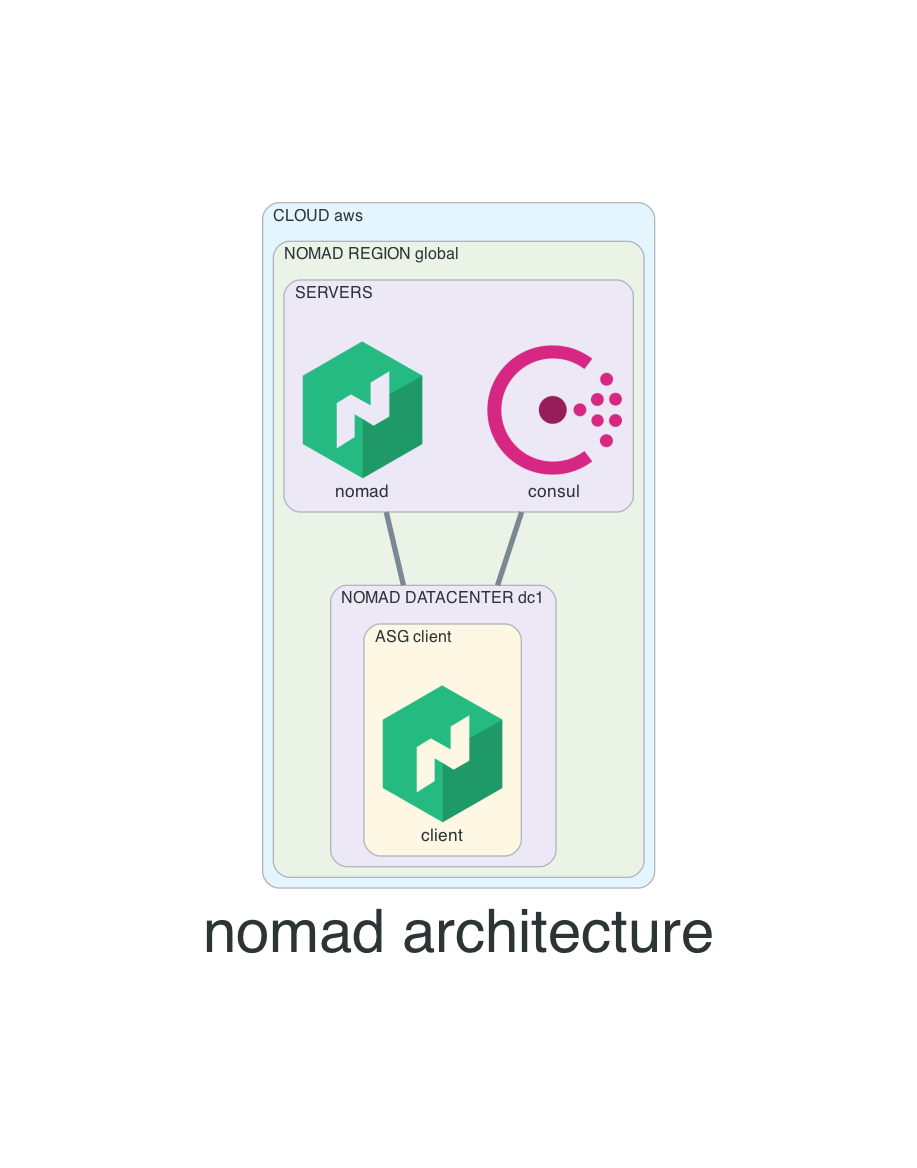
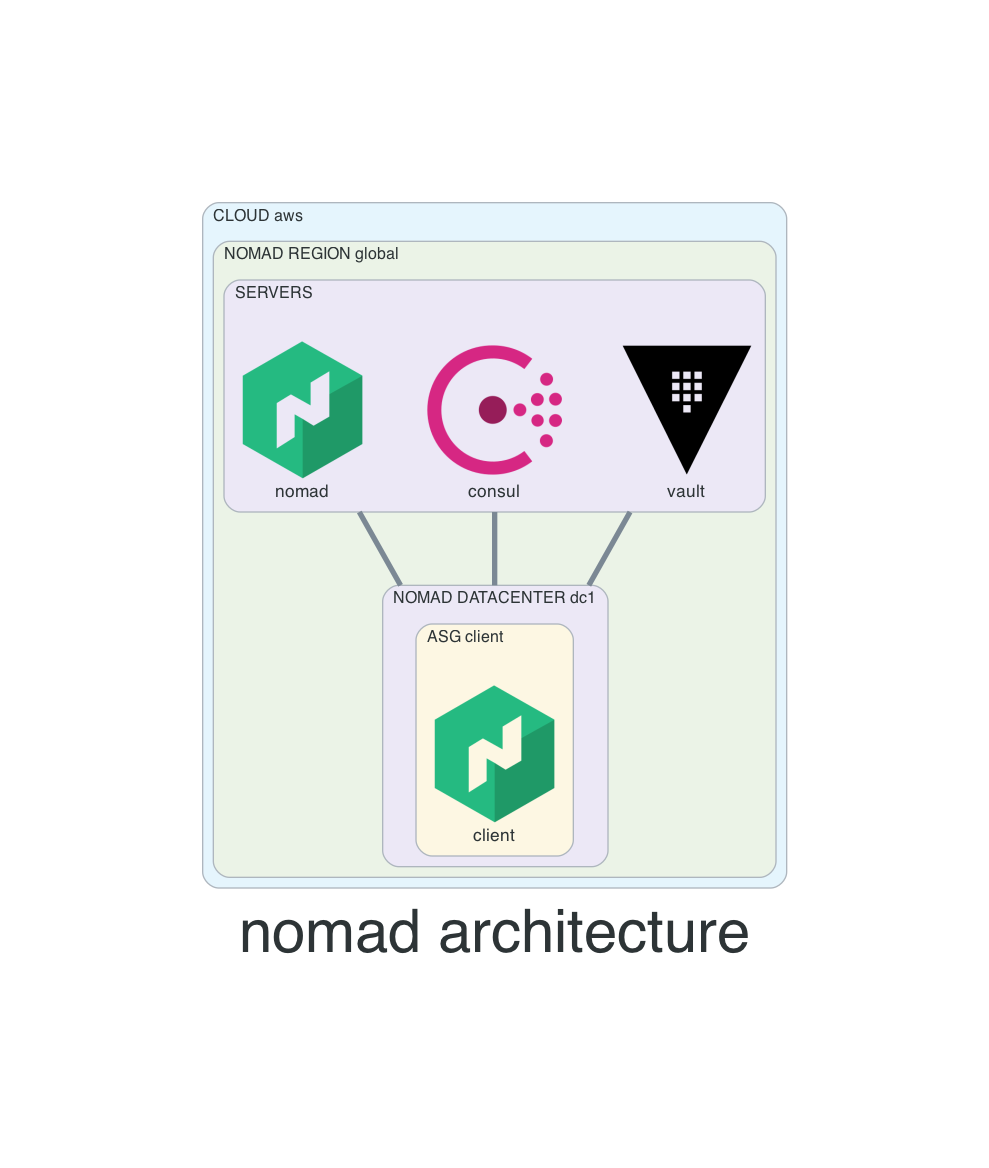
add vault

Changed region(s): [[0.1832, 0.1541, 0.7939, 0.8322], [0.458, 0.2158, 0.4885, 0.2466]]

diff --git a/diagram/diagram.py b/diagram/diagram.py
@@ -4,6 +4,7 @@ from diagrams import Diagram, Cluster, Edge
 from diagrams.aws.network import Route53, ELB
 from diagrams.onprem.network import Consul, Traefik
 from diagrams.onprem.compute import Nomad
+from diagrams.onprem.security import Vault
 
 outformat="png"
 
@@ -21,23 +22,25 @@ with Diagram("nomad architecture", filename="diagram", direction="TB",outformat=
             with Cluster("SERVERS"):
                 consul1_global = Consul("consul")
                 nomad1_global = Nomad("nomad")
+                vault1_global = Vault("vault")
             with Cluster("NOMAD DATACENTER dc1"):
                 with Cluster("ASG client"):
                     client1 = Nomad("client")
                     nomad1_global - Edge(penwidth = "4", lhead = "cluster_NOMAD DATACENTER dc1", ltail="cluster_SERVERS", minlen="2") - client1
                     consul1_global - Edge(penwidth = "4", lhead = "cluster_NOMAD DATACENTER dc1", ltail="cluster_SERVERS", minlen="2") - client1
+                    vault1_global - Edge(penwidth = "4", lhead = "cluster_NOMAD DATACENTER dc1", ltail="cluster_SERVERS", minlen="2") - client1
+
 with Diagram("ingress", filename="ingress", direction="TB",outformat=outformat, graph_attr=graph_attr):
     dns = Route53("dns")
     with Cluster("NOMAD REGION global"):
         with Cluster("SUBNET public"):
-            lb_app = ELB("LB app")
-            lb_servers = ELB("LB servers")
+            lb_servers = ELB("LB api")
         with Cluster("SUBNET private"):
             with Cluster("SERVERS"):
                 consul1_global = Consul("consul")
                 nomad1_global = Nomad("nomad")
+                vault1_global = Vault("vault")
             with Cluster("NOMAD DATACENTER dc1"):
                 client1 = Nomad("client")
-                dns >> Edge(lhead="cluster_SUBNET public", color="blue") >> [lb_app, lb_servers]
-                lb_app >> Edge(ltail="cluster_SUBNET public", lhead="cluster_NOMAD DATACENTER dc1", minlen="2", color="blue") >> client1
-                lb_servers >> Edge(ltail="cluster_SUBNET public", lhead="cluster_SERVERS", minlen="1", color="blue") >> [consul1_global, nomad1_global]
+                dns >> Edge(lhead="cluster_SUBNET public", color="blue") >> [lb_servers]
+                lb_servers >> Edge(ltail="cluster_SUBNET public", lhead="cluster_SERVERS", minlen="1", color="blue") >> [consul1_global, nomad1_global, vault1_global]
